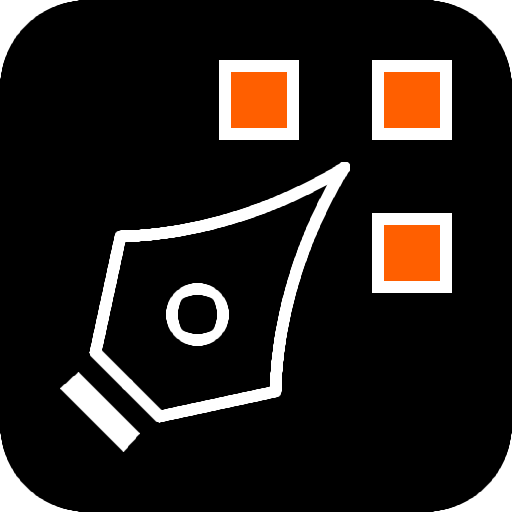
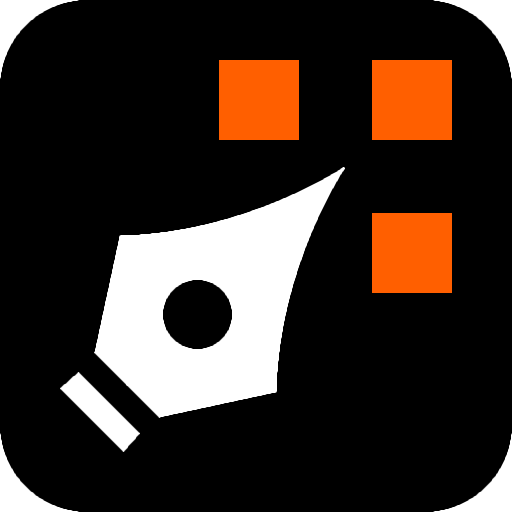
feat(app): nuevo icono de la aplicación en ventana, instaladores, barra de título y web
Incluye también los cambios pendientes en bindings, colorOps, TitleBar y LayersPanel.

diff --git a/src/renderer/panels/LayersPanel.vue b/src/renderer/panels/LayersPanel.vue
@@ -94,6 +94,11 @@ function dropAfter(i: number): boolean {
   return docs.layers.findIndex((x) => x.id === dragId.value) < i
 }
 
+/** ¿La capa muestra filas de formas bajo ella? (la línea de destino va tras la última) */
+function hasKids(l: { groupId: string | null; collapsed: boolean; shapes: unknown[] }): boolean {
+  return !hidden(l) && !l.collapsed && l.shapes.length > 0
+}
+
 // Reordenar: la lista está invertida (la fila 0 es la capa de más arriba).
 function onDrop(rowIndex: number) {
   if (dragShape.value) {
@@ -234,7 +239,12 @@ onBeforeUnmount(() => {
             'is-current': l.active,
             'is-hidden': !l.visible,
             'is-drop': dropIndex === i && dragId !== null && dragId !== l.id && !dropAfter(i),
-            'is-drop-after': dropIndex === i && dragId !== null && dragId !== l.id && dropAfter(i),
+            'is-drop-after':
+              dropIndex === i &&
+              dragId !== null &&
+              dragId !== l.id &&
+              dropAfter(i) &&
+              !hasKids(l),
             'is-drop-into': dropIndex === i && dragShape !== null
           }"
           :aria-current="l.active || undefined"
@@ -317,12 +327,24 @@ onBeforeUnmount(() => {
           </button>
         </li>
         <li
-          v-for="sh in hidden(l) || l.collapsed ? [] : l.shapes"
+          v-for="(sh, si) in hidden(l) || l.collapsed ? [] : l.shapes"
           :key="sh.id"
           class="pt-lrow pt-srow"
-          :class="{ 'is-selected': sh.selected, 'is-hidden': !sh.visible }"
+          :class="{
+            'is-selected': sh.selected,
+            'is-hidden': !sh.visible,
+            'is-drop-after':
+              si === l.shapes.length - 1 &&
+              dropIndex === i &&
+              dragId !== null &&
+              dragId !== l.id &&
+              dropAfter(i)
+          }"
           draggable="true"
           @dragstart.stop="dragShape = sh.id"
+          @dragover.prevent="dragId && (dropIndex = i)"
+          @dragleave="dragId && (dropIndex = null)"
+          @drop.prevent="dragId && onDrop(i)"
           @dragend="((dragShape = null), (dropIndex = null))"
           @click="onShapeClick(l.id, sh.id, $event)"
         >

diff --git a/src/renderer/layout/TitleBar.vue b/src/renderer/layout/TitleBar.vue
@@ -1,7 +1,7 @@
 <script setup lang="ts">
 import MenuBar from './MenuBar.vue'
 import PtIcon from '@/components/PtIcon.vue'
-import { onBeforeUnmount, onMounted, ref } from 'vue'
+import { computed, onBeforeUnmount, onMounted, ref } from 'vue'
 import { actionLabel, actionShortcut, execute, isEnabled } from '@/actions/registry'
 import { switchWorkspace, workspaceEntries, workspaceName } from '@/app/workspaces'
 import { useUiStore } from '@/stores/ui'
@@ -10,6 +10,20 @@ import icon16 from '@/assets/icon-16.png'
 import icon32 from '@/assets/icon-32.png'
 
 const ui = useUiStore()
+
+// El icono es pixel art: se muestra siempre 1:1 en píxeles de dispositivo (16 o 32 px), ajustando
+// su tamaño CSS a la escala de pantalla, para que nunca se reescale con escalas como 125 % o 150 %.
+const dpr = ref(window.devicePixelRatio || 1)
+const useBig = computed(() => dpr.value >= 1.5)
+const logoSrc = computed(() => (useBig.value ? icon32 : icon16))
+const logoSize = computed(() => (useBig.value ? 32 : 16) / dpr.value)
+let mq: MediaQueryList | null = null
+function watchDpr(): void {
+  mq?.removeEventListener('change', watchDpr)
+  dpr.value = window.devicePixelRatio || 1
+  mq = window.matchMedia(`(resolution: ${dpr.value}dppx)`)
+  mq.addEventListener('change', watchDpr)
+}
 const menu = ref<{ x: number; y: number } | null>(null)
 function open(e: MouseEvent): void {
   const r = (e.currentTarget as HTMLElement).getBoundingClientRect()
@@ -37,10 +51,12 @@ const ACTIONS = [
   'window.workspace.reset'
 ]
 onMounted(() => {
+  watchDpr()
   document.addEventListener('pointerdown', dismiss, true)
   document.addEventListener('keydown', dismiss, true)
 })
 onBeforeUnmount(() => {
+  mq?.removeEventListener('change', watchDpr)
   document.removeEventListener('pointerdown', dismiss, true)
   document.removeEventListener('keydown', dismiss, true)
 })
@@ -51,10 +67,9 @@ onBeforeUnmount(() => {
     <div class="pt-logo">
       <img
         class="logo"
-        :src="icon16"
-        :srcset="`${icon32} 2x`"
-        width="16"
-        height="16"
+        :src="logoSrc"
+        :width="logoSize"
+        :height="logoSize"
         :alt="t('app.name')"
       />
     </div>

diff --git a/src/renderer/app/colorOps.ts b/src/renderer/app/colorOps.ts
@@ -48,6 +48,33 @@ export function setSelectionPaint(target: ColorTarget, on: boolean): void {
   })
 }
 
+/**
+ * Intercambia relleno y contorno: colores, indicador «ninguno» y degradados, y lo aplica a las
+ * formas seleccionadas (un relleno «ninguno» pasa al contorno y viceversa).
+ */
+export function swapFillStroke(): void {
+  const colors = useColorsStore()
+  const tools = useToolsStore()
+  ;[colors.fill, colors.stroke] = [colors.stroke, colors.fill]
+  ;[colors.fillGradient, colors.strokeGradient] = [colors.strokeGradient, colors.fillGradient]
+  ;[tools.useFill, tools.useStroke] = [tools.useStroke, tools.useFill]
+  const s = useDocumentsStore().session
+  if (!s || !s.selectedShapes.length) return
+  const rgba = (hex: string) => {
+    const v = hexToRgba(hex)
+    return { r: (v >>> 24) & 255, g: (v >>> 16) & 255, b: (v >>> 8) & 255, a: v & 255 }
+  }
+  const ids = s.selectedShapes
+  const state = { fill: tools.useFill, stroke: tools.useStroke }
+  // primero se activan, luego se colorean los activos y al final se desactivan
+  for (const t2 of ['fill', 'stroke'] as const)
+    if (state[t2]) setShapesPaint(s, ids, t2, true, rgba(colors[t2]))
+  for (const t2 of ['fill', 'stroke'] as const)
+    if (state[t2]) setShapesColor(s, ids, t2, rgba(colors[t2]))
+  for (const t2 of ['fill', 'stroke'] as const)
+    if (!state[t2]) setShapesPaint(s, ids, t2, false, rgba(colors[t2]))
+}
+
 /** Muestra en relleno y contorno los colores de la primera forma seleccionada (si son lisos). */
 export function syncColorsFromSelection(): void {
   const s = useDocumentsStore().session

diff --git a/src/renderer/actions/bindings.ts b/src/renderer/actions/bindings.ts
@@ -1,4 +1,5 @@
 // Conecta las acciones del registro con los stores y el core.
+import { swapFillStroke } from '@/app/colorOps'
 import {
   type Bitmap,
   commitFloating,
@@ -115,7 +116,7 @@ export function registerAppActions(): void {
   }
 
   const colors = useColorsStore()
-  registerHandler('colors.swap', { run: () => colors.swap() })
+  registerHandler('colors.swap', { run: () => swapFillStroke() })
   registerHandler('colors.default', { run: () => colors.reset() })
   registerHandler('colors.toggleActive', { run: () => colors.toggleTarget() })
   registerHandler('brush.sizeDown', { run: () => tools.setBrushSize(tools.brushSize - 1) })
